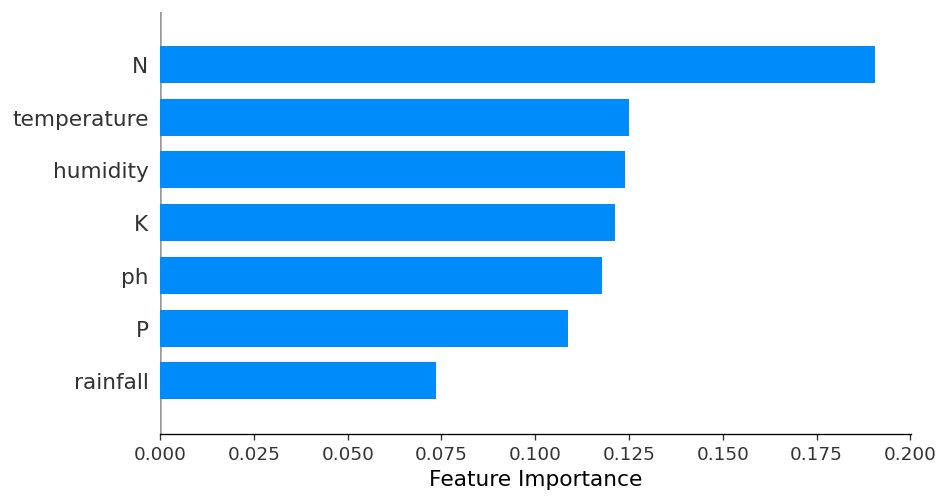
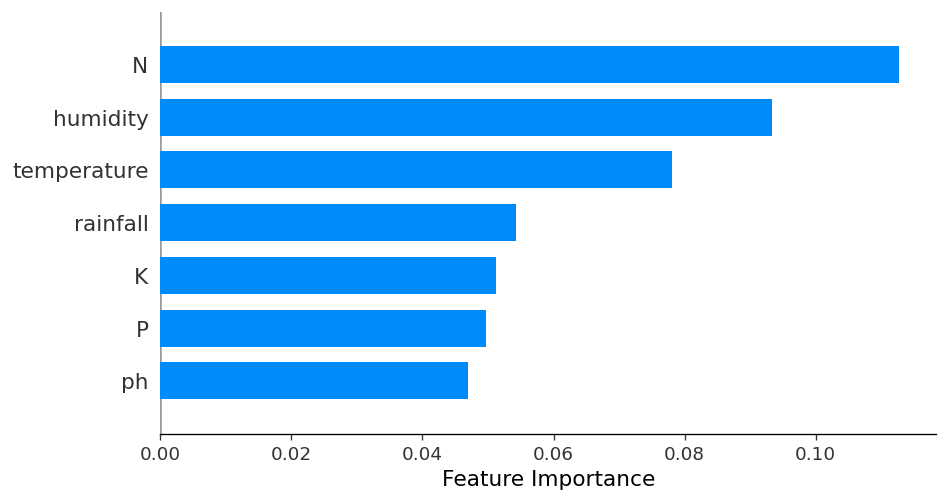
shap values calc on all entries

diff --git a/prediction_model/shap_global.py b/prediction_model/shap_global.py
@@ -24,8 +24,8 @@ import matplotlib.pyplot as plt
 
 def plot_global_shap_bar(
     predictor,
-    background_size: int = 100,
-    sample_size: int = 500,
+    background_size: int = 2000,
+    sample_size: int = 2000,
     save_path: str | None = "shap_global_bar.png",
 ):
     """Erstellt ein Bar‑Chart der **globalen** Feature‑Wichtigkeit.
